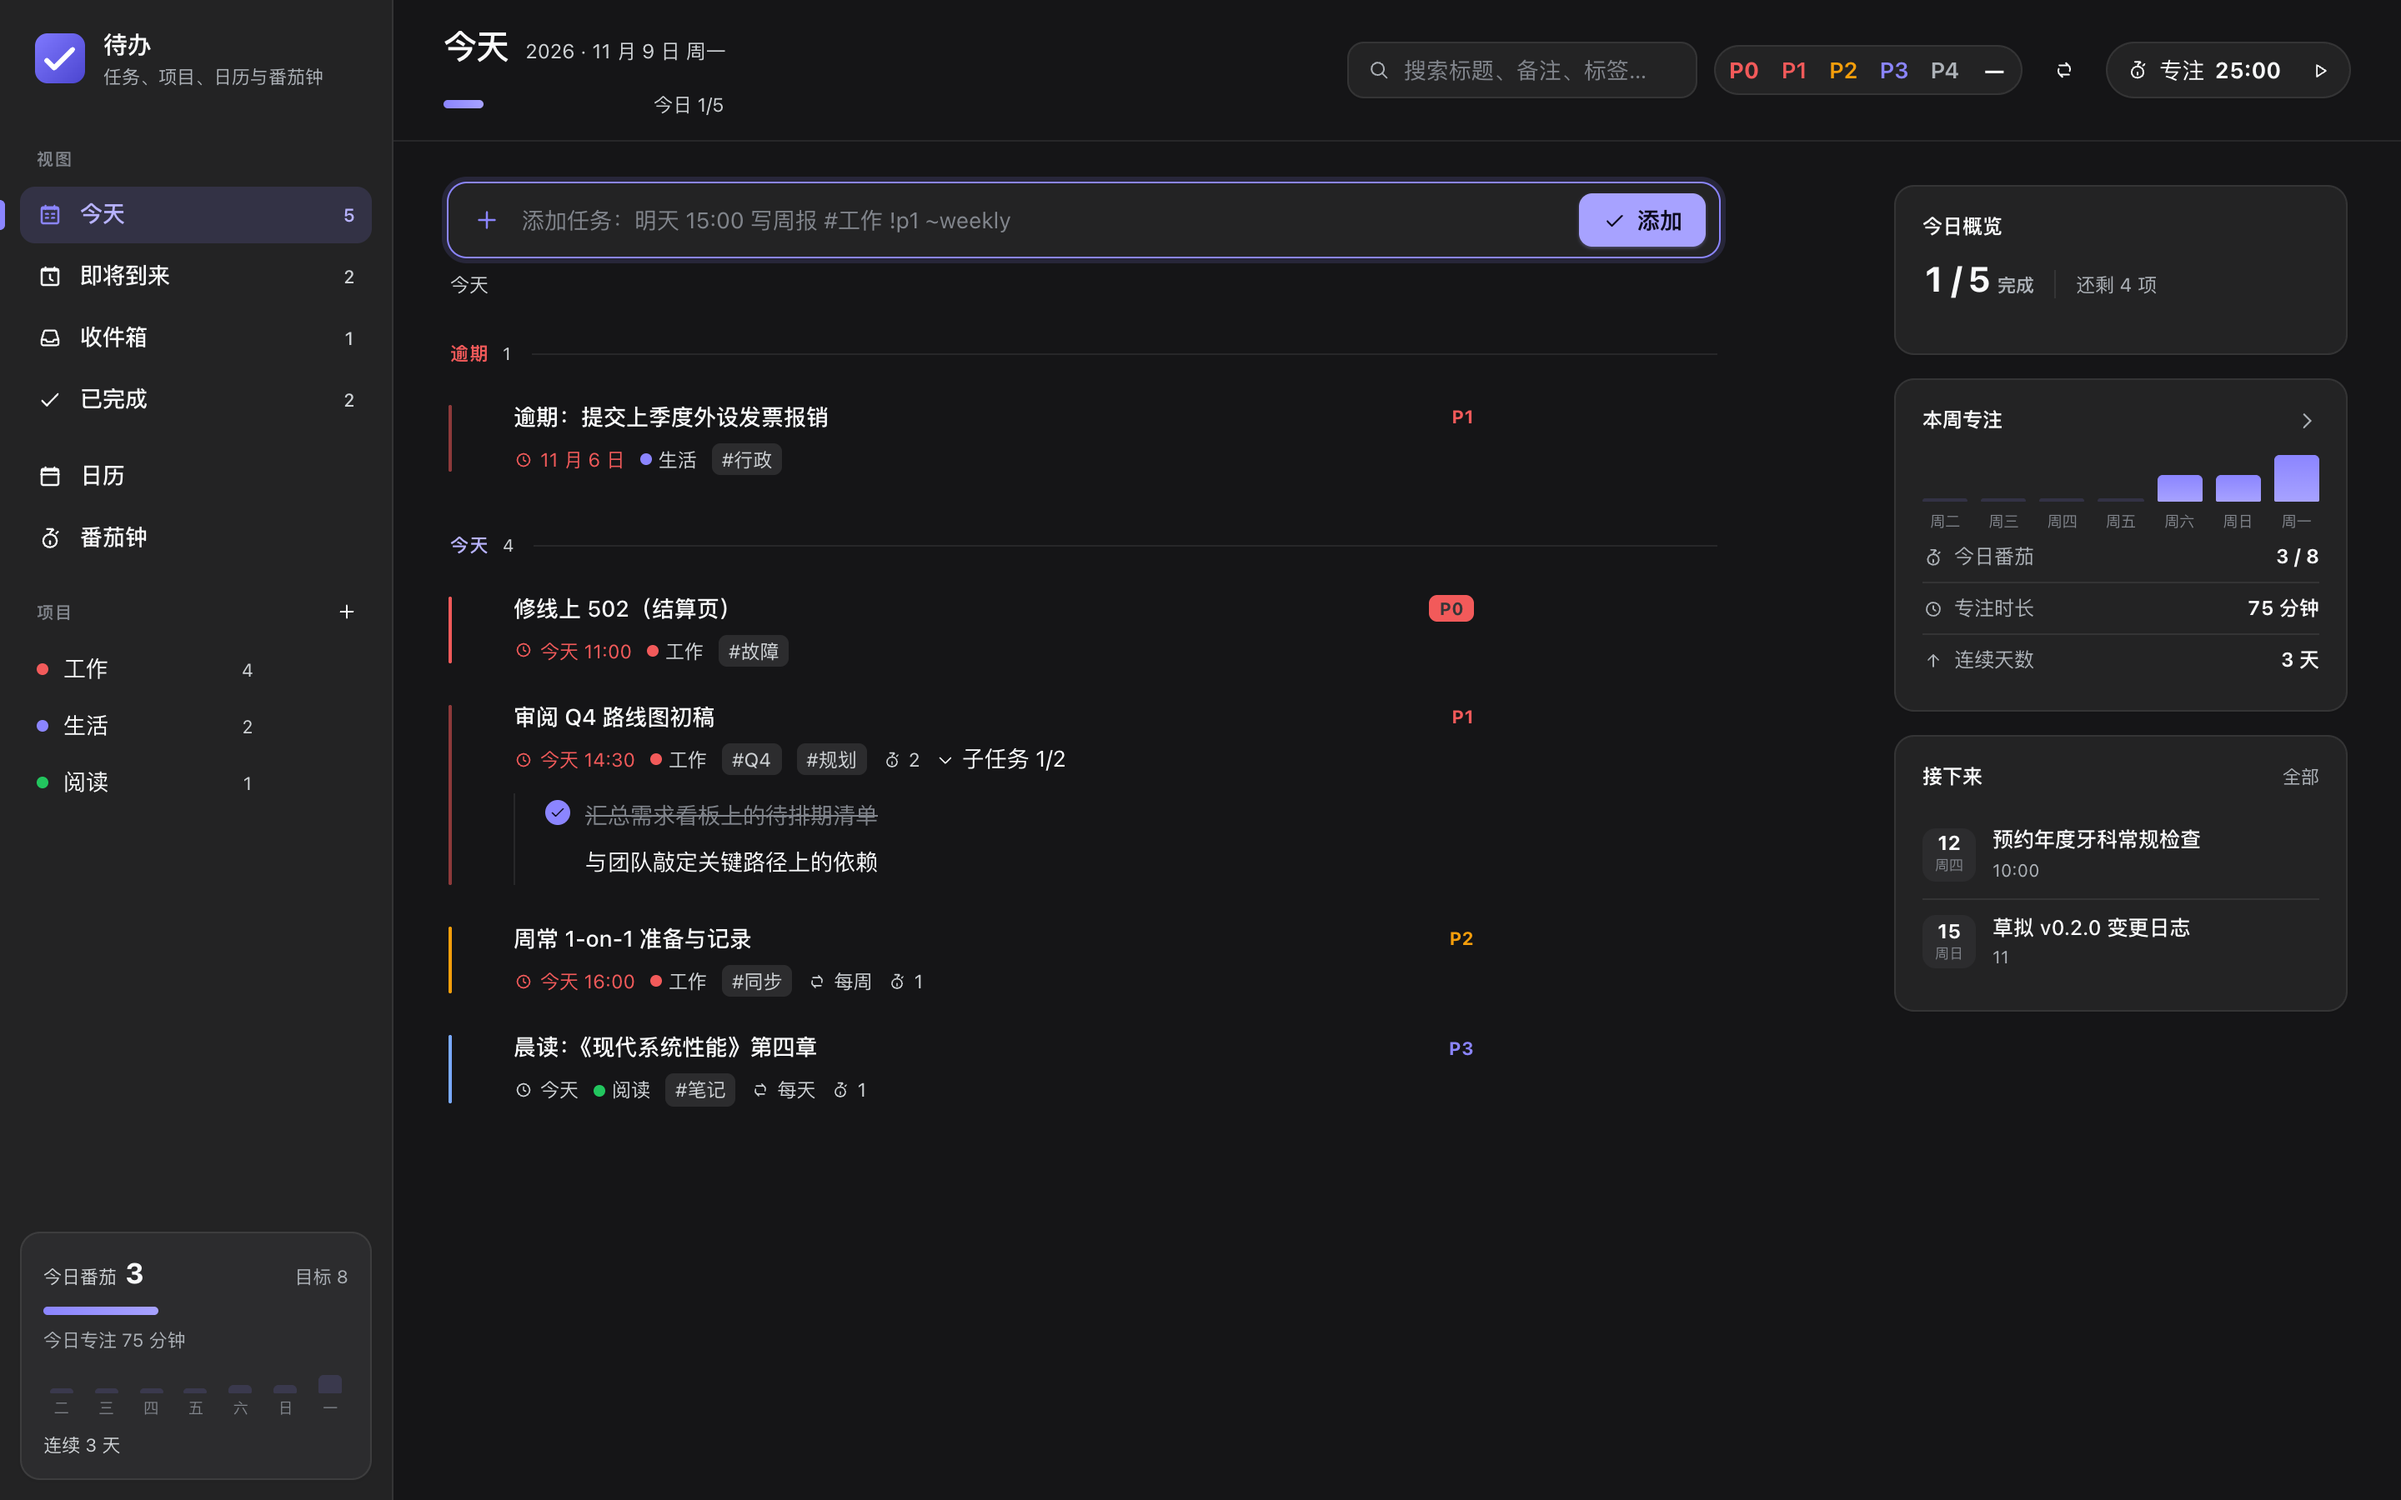
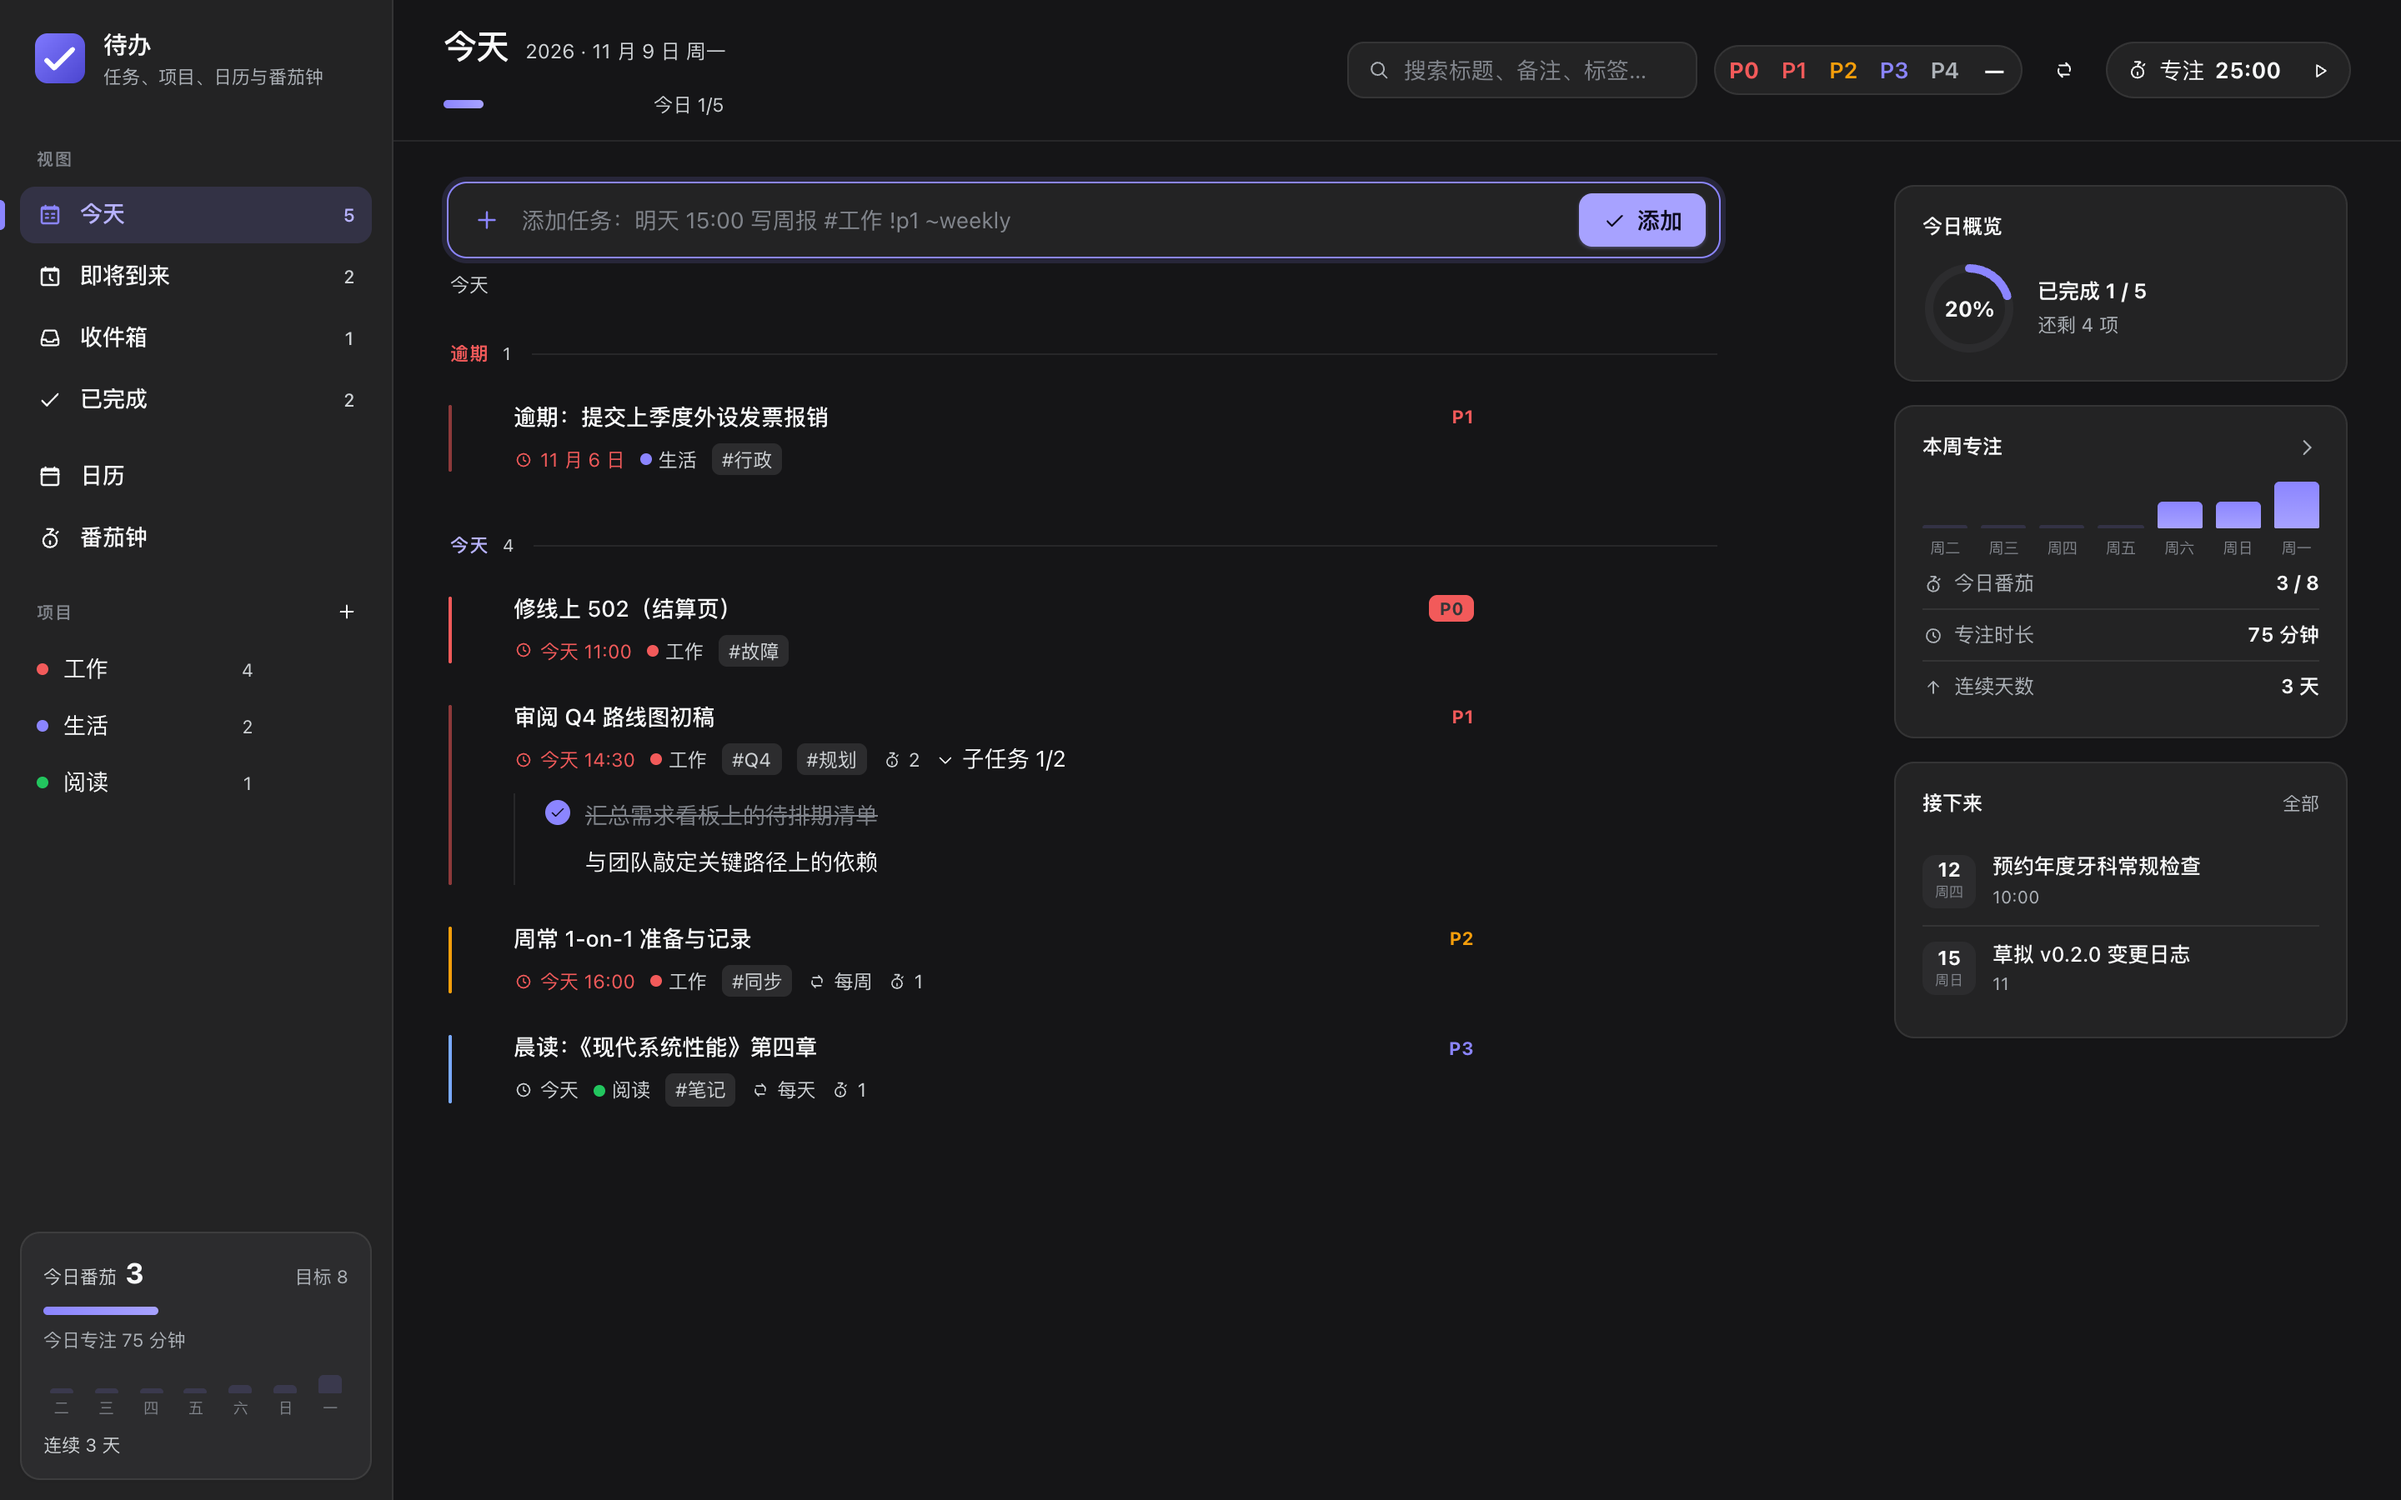
fix: balance completion progress ring

diff --git a/lib/client.js b/lib/client.js
@@ -4399,6 +4399,10 @@ window.__ModuleLoader__.load({
 
     function TodoRail(props) {
       const { stats, done, total, tasks, today, ui } = props;
+      const pct = total ? Math.round((done / total) * 100) : 0;
+      const R = 24;
+      const C = 2 * Math.PI * R;
+      const dash = `${(pct / 100) * C} ${C}`;
       const goal = stats.goal || 8;
       const weekMax = Math.max(1, ...stats.days.map((day) => day.count));
       const weekdayShort = (date) => t(`weekday.short.${weekdayOf(date)}`);
@@ -4419,13 +4423,22 @@ window.__ModuleLoader__.load({
             { className: "todo-rail-overview" },
             h(
               "div",
-              { className: "todo-rail-completion", "aria-label": t("rail.progress", { done, total }) },
-              h("strong", null, `${done} / ${total}`),
-              h("span", null, t("rail.done")),
+              { className: "todo-rail-ring", role: "img", "aria-label": t("rail.progress", { done, total }) },
+              h(
+                "svg",
+                { width: 56, height: 56, viewBox: "0 0 56 56", "aria-hidden": "true" },
+                h("circle", { cx: 28, cy: 28, r: R, fill: "none", stroke: "var(--dsw-alias-bg-layer-2)", strokeWidth: 5 }),
+                h("circle", {
+                  cx: 28, cy: 28, r: R, fill: "none", stroke: "var(--todo-accent)", strokeWidth: 5,
+                  strokeLinecap: "round", strokeDasharray: dash, transform: "rotate(-90 28 28)",
+                }),
+              ),
+              h("span", { className: "todo-rail-ring-pct" }, `${pct}%`),
             ),
             h(
               "div",
               { className: "info" },
+              h("b", null, t("rail.progress", { done, total })),
               h("span", null, t("rail.remaining", { n: Math.max(0, total - done) })),
             ),
           ),
@@ -5681,12 +5694,15 @@ body[data-ds-dark-theme] .todo-row-timer.is-running { color: #0c0a1e; }
 .todo-rail-head { display: flex; align-items: center; justify-content: space-between; margin-bottom: 12px; }
 .todo-rail-head h4 { margin: 0; font-size: 12px; font-weight: 650; color: var(--dsw-alias-label-primary); }
 .todo-rail-head .more { color: var(--dsw-alias-label-tertiary); display: grid; place-items: center; cursor: pointer; }
-.todo-rail-overview { display: flex; align-items: baseline; gap: 12px; min-height: 40px; }
-.todo-rail-completion { display: inline-flex; align-items: baseline; gap: 5px; flex: none; color: var(--dsw-alias-label-primary); font-variant-numeric: tabular-nums; }
-.todo-rail-completion strong { font-size: 21px; line-height: 1; font-weight: 700; letter-spacing: -0.025em; }
-.todo-rail-completion span { font-size: 11px; font-weight: 600; color: var(--dsw-alias-label-tertiary); }
-.todo-rail-overview .info { padding-left: 12px; border-left: 1px solid var(--dsw-alias-border-l1); }
-.todo-rail-overview .info span { display: block; font-size: 11.5px; color: var(--dsw-alias-label-tertiary); }
+.todo-rail-overview { display: flex; align-items: center; gap: 13px; }
+.todo-rail-ring { width: 56px; height: 56px; position: relative; flex: none; }
+.todo-rail-ring-pct {
+  position: absolute; inset: 0; display: grid; place-items: center;
+  font-size: 13px; line-height: 1; font-weight: 700; letter-spacing: -0.02em; white-space: nowrap;
+  font-variant-numeric: tabular-nums; color: var(--dsw-alias-label-primary);
+}
+.todo-rail-overview .info b { display: block; font-size: 12.5px; line-height: 1.25; font-weight: 650; }
+.todo-rail-overview .info span { display: block; font-size: 11.5px; color: var(--dsw-alias-label-tertiary); margin-top: 3px; }
 .todo-rail-kv { display: flex; align-items: center; justify-content: space-between; padding: 6px 0; font-size: 12px; }
 .todo-rail-kv:not(:last-child) { border-bottom: 1px solid var(--dsw-alias-border-l1); }
 .todo-rail-kv .k { display: flex; align-items: center; gap: 6px; color: var(--dsw-alias-label-tertiary); }
